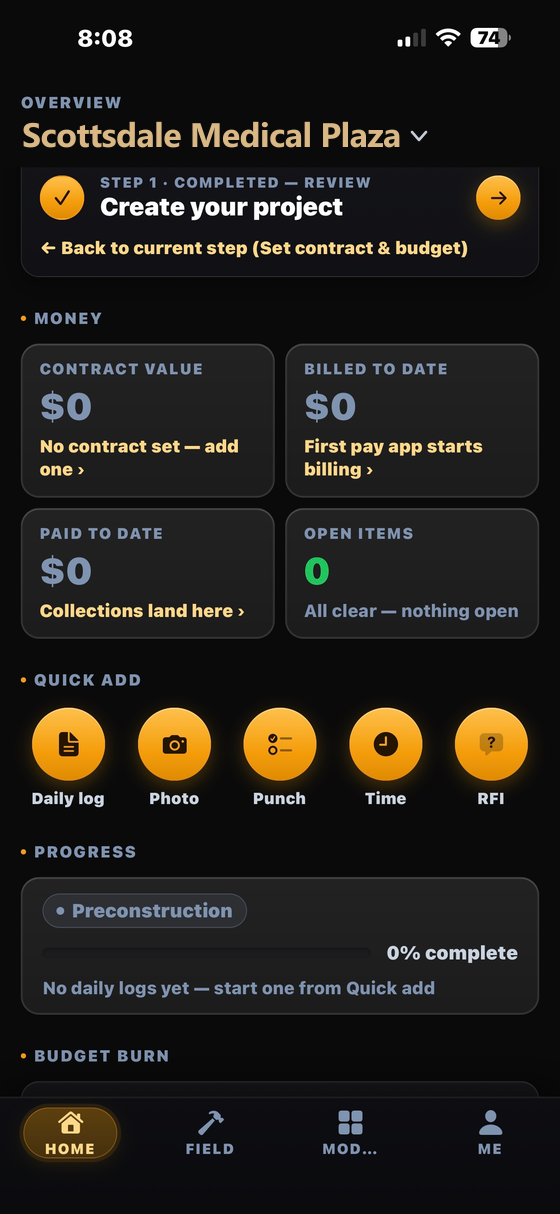
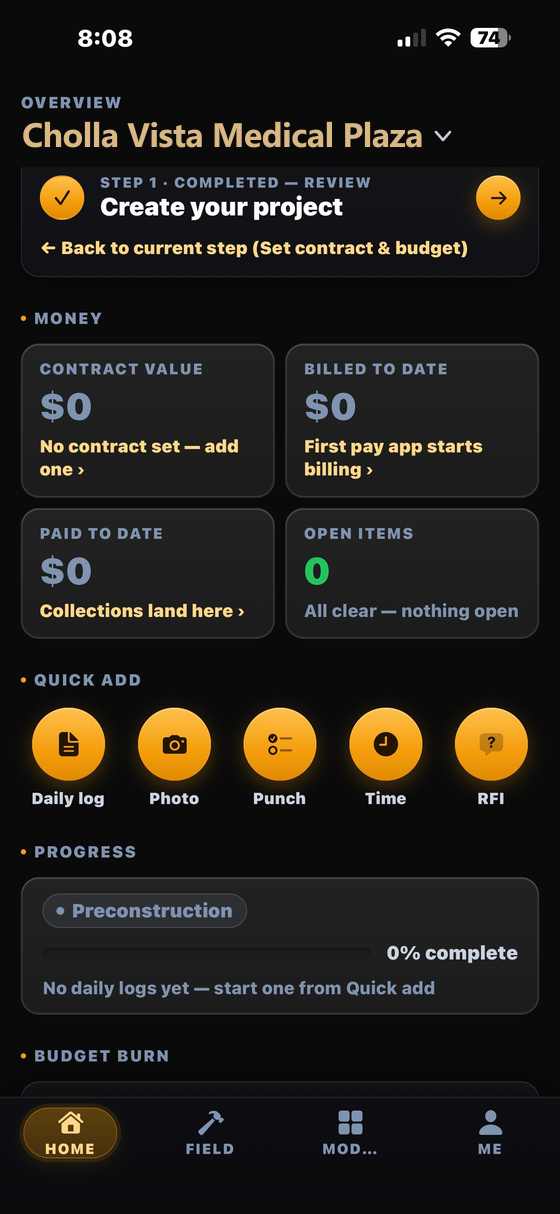
Greet the signed-in user by name; demo project renamed to a fictional one
GREETING (#6). The dashboard said "Good evening" to nobody in particular. It
now reads "Good evening, Rob" — time of day already worked; the name is new.

firstName is computed in /api/auth/me and is deliberately NOT derived from the
`name` field beside it. That field falls back to the email prefix when a
profile has no full_name, which would have produced "Good evening,
tntcybersolutions" — worse than no name at all. null means "we do not actually
know this person's name" and the greeting stays exactly as it was.

Real profiles in this database are stored however the user typed them — "rob",
"avery", "Chad Derocher" — so the first letter is capitalised for display while
the rest of the token is left alone, so McKay and O'Brien survive. Checked
against every profile currently in the database:

  rob              -> "Good evening, Rob"
  Chad Derocher    -> "Good evening, Chad"
  adam D charney   -> "Good evening, Adam"
  (empty / email)  -> greeting stays plain

Rendering splits as before — "Good" plain, "evening, Rob" in the gold accent.

DEMO PROJECT. The owner asked for a clearly fictional Scottsdale name. The
seeded project was "Scottsdale Medical Plaza" at 7340 E Shea Blvd — plausible
enough to be a real business at a real address, which is fine as internal demo
data and less fine on a public marketing page. Renamed to "Cholla Vista Medical
Plaza" (cholla being a Sonoran cactus, on-brand and invented) at an invented
[…]

Changed region(s): [[0.0304, 0.0914, 0.7589, 0.1219]]

diff --git a/app/app/page.tsx b/app/app/page.tsx
@@ -344,6 +344,25 @@ export default function DashboardPage() {
     setGreeting(h < 12 ? 'Good morning' : h < 17 ? 'Good afternoon' : 'Good evening');
   }, []);
 
+  /* Greet the person by name — "Good evening, Rob".
+   * firstName is null whenever the profile has no real full_name; /api/auth/me
+   * refuses to fall back to the email prefix precisely so this cannot render
+   * "Good evening, tntcybersolutions". No name => the greeting stays as it was. */
+  const [firstName, setFirstName] = useState<string | null>(null);
+  useEffect(() => {
+    let alive = true;
+    fetch('/api/auth/me')
+      .then(r => (r.ok ? r.json() : null))
+      .then(d => { if (alive && d && typeof d.firstName === 'string') setFirstName(d.firstName); })
+      .catch(() => { /* greeting simply stays nameless */ });
+    return () => { alive = false; };
+  }, []);
+
+  // "Good" stays white; "evening, Rob" carries the gold accent.
+  const greetLead = greeting.split(' ')[0];
+  const greetRest = greeting.split(' ').slice(1).join(' ');
+  const greetAccent = firstName ? `${greetRest}, ${firstName}` : greetRest;
+
   // Win/loss learned outcomes — headline win rate + per-trade breakdown
   // (GET /api/bids/win-factors; winRate is a 0..1 fraction over decided bids, or null).
   const [winData, setWinData] = useState<{
@@ -380,8 +399,8 @@ export default function DashboardPage() {
           eyebrow="Portfolio Overview"
           eyebrowIcon={<Sparkle size={13} weight="fill" />}
           aux={<LivePulse />}
-          title={greeting.split(' ')[0]}
-          accent={greeting.split(' ').slice(1).join(' ')}
+          title={greetLead}
+          accent={greetAccent}
           subtitle="Here's what needs your attention today."
           actions={<>
             <Link href="/app/projects/new" style={goldButtonStyle} className="pmBtn"><Plus size={15} weight="bold" /> New Project</Link>

diff --git a/app/api/auth/me/route.ts b/app/api/auth/me/route.ts
@@ -17,10 +17,29 @@ export async function GET(req: NextRequest) {
   const p = profile as any;
   const name = p?.full_name || user.email.split('@')[0];
 
+  /* firstName is for greeting a person by name ("Good evening, Rob").
+   * It is deliberately NOT derived from `name` above: that field falls back to
+   * the email prefix, so a login like tntcybersolutions@… would produce
+   * "Good evening, tntcybersolutions", which is worse than no name at all.
+   * Null here means "we do not actually know this person's name" and the
+   * caller should greet them without one. */
+  const rawFullName = typeof p?.full_name === 'string' ? p.full_name.trim() : '';
+  const firstToken = rawFullName.split(/\s+/)[0] ?? '';
+  const firstName =
+    // a real given name: letters (plus - and ') and a sane length
+    /^[\p{L}][\p{L}'-]{0,29}$/u.test(firstToken)
+      ? // Real profiles in this database are stored however the user typed them
+        // — "rob", "avery", "Chad Derocher". Greeting someone "Good evening,
+        // rob" reads as a bug, so capitalise the first letter. The REST of the
+        // token is left untouched so "McKay" and "O'Brien" survive intact.
+        firstToken.charAt(0).toUpperCase() + firstToken.slice(1)
+      : null;
+
   return NextResponse.json({
     id: user.id,
     email: user.email,
     name,
+    firstName,
     tenantId: user.tenantId,
     phone: p?.phone || null,
     role: p?.role || 'member',
